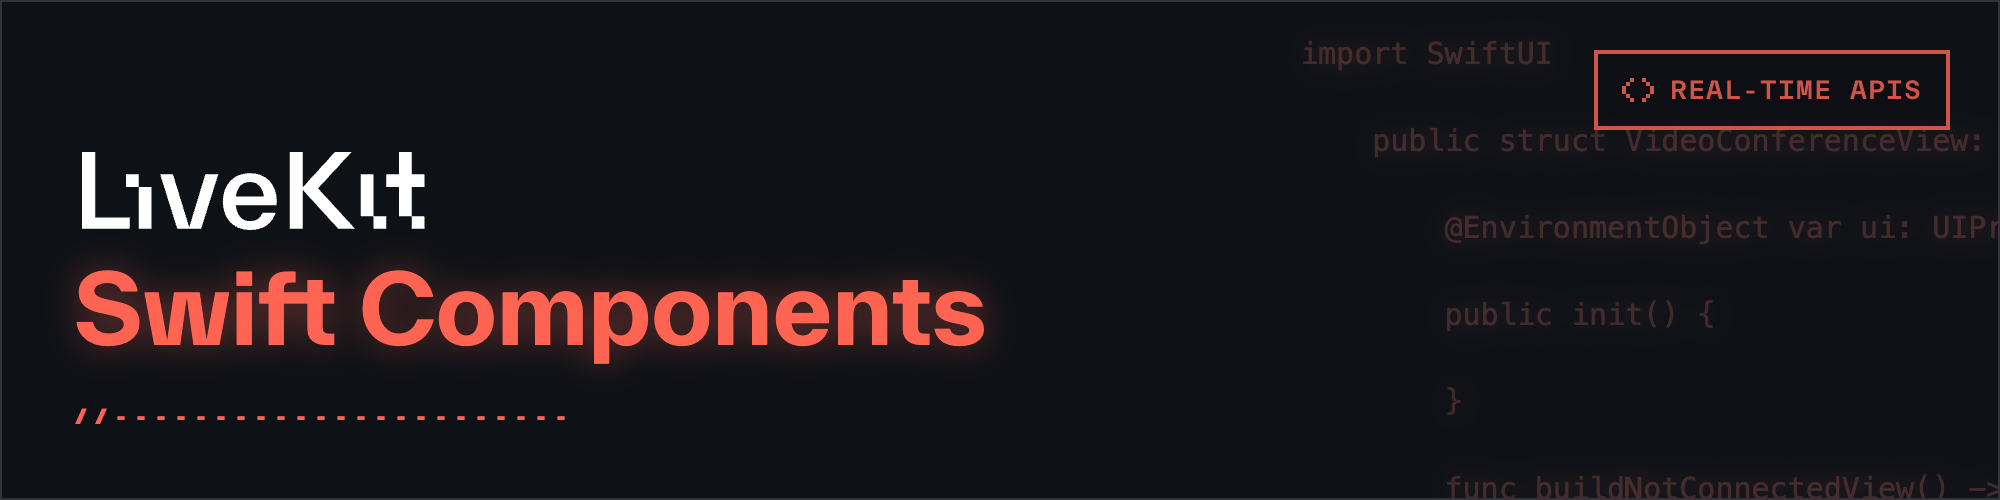
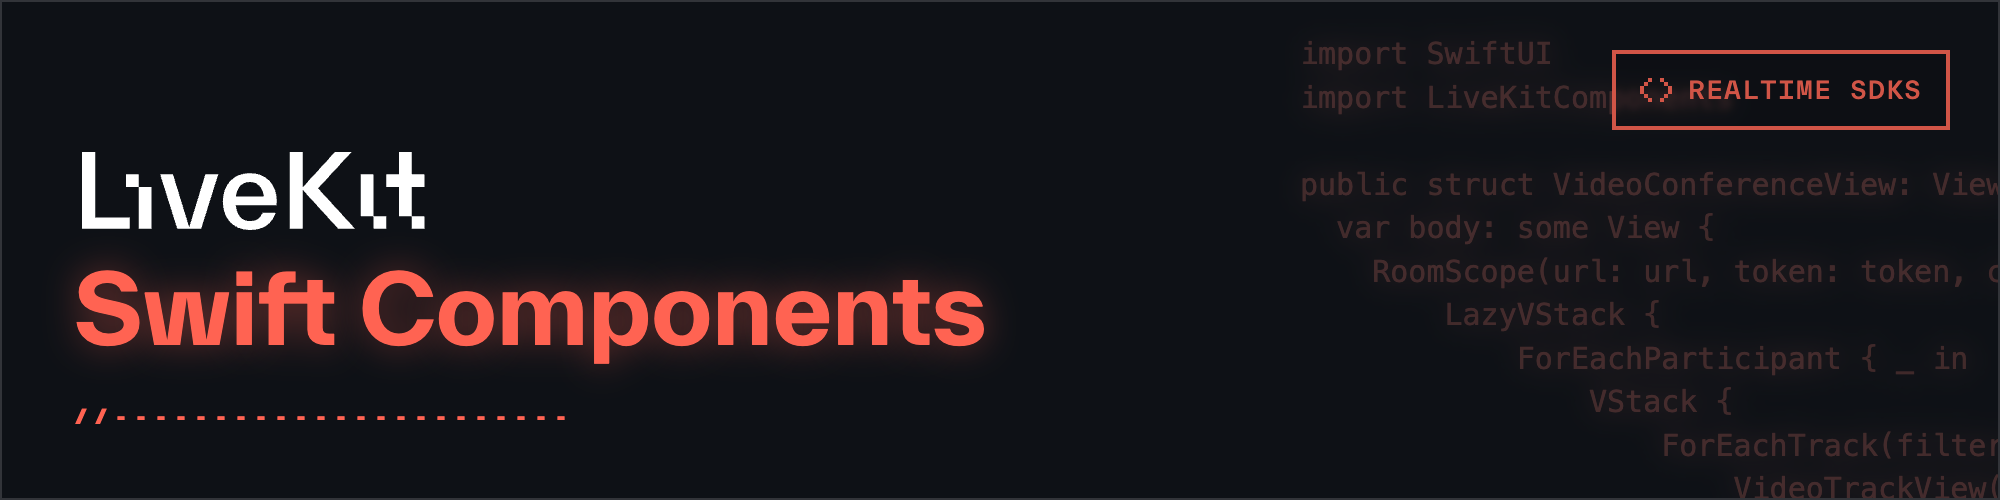
update readme

diff --git a/README.md b/README.md
@@ -11,7 +11,7 @@
 # Swift Components
 
 <!--BEGIN_DESCRIPTION-->
-Use this SDK to add real-time video, audio and data features to your Swift app. By connecting to a self- or cloud-hosted <a href="https://livekit.io/">LiveKit</a> server, you can quickly build applications like interactive live streaming or video calls with just a few lines of code.
+Use this SDK to add realtime video, audio and data features to your SwiftUI app. By connecting to a self- or cloud-hosted <a href="https://livekit.io/">LiveKit</a> server, you can quickly build applications like interactive live streaming or video calls with just a few lines of code.
 <!--END_DESCRIPTION-->
 
 ## Docs
@@ -26,10 +26,10 @@ See our [Meet Example app](https://github.com/livekit-examples/swift-components)
 <br/><table>
 <thead><tr><th colspan="2">LiveKit Ecosystem</th></tr></thead>
 <tbody>
-<tr><td>Real-time SDKs</td><td><a href="https://github.com/livekit/components-js">React Components</a> · <a href="https://github.com/livekit/client-sdk-js">Browser</a> · <a href="https://github.com/livekit/client-sdk-swift">iOS/macOS</a> · <a href="https://github.com/livekit/client-sdk-android">Android</a> · <a href="https://github.com/livekit/client-sdk-flutter">Flutter</a> · <a href="https://github.com/livekit/client-sdk-react-native">React Native</a> · <a href="https://github.com/livekit/rust-sdks">Rust</a> · <a href="https://github.com/livekit/node-sdks">Node.js</a> · <a href="https://github.com/livekit/python-sdks">Python</a> · <a href="https://github.com/livekit/client-sdk-unity-web">Unity (web)</a> · <a href="https://github.com/livekit/client-sdk-unity">Unity (beta)</a></td></tr><tr></tr>
+<tr><td>Realtime SDKs</td><td><a href="https://github.com/livekit/components-js">React Components</a> · <a href="https://github.com/livekit/client-sdk-js">Browser</a> · <b>Swift Components</b> · <a href="https://github.com/livekit/client-sdk-swift">iOS/macOS</a> · <a href="https://github.com/livekit/client-sdk-android">Android</a> · <a href="https://github.com/livekit/client-sdk-flutter">Flutter</a> · <a href="https://github.com/livekit/client-sdk-react-native">React Native</a> · <a href="https://github.com/livekit/rust-sdks">Rust</a> · <a href="https://github.com/livekit/node-sdks">Node.js</a> · <a href="https://github.com/livekit/python-sdks">Python</a> · <a href="https://github.com/livekit/client-sdk-unity-web">Unity (web)</a> · <a href="https://github.com/livekit/client-sdk-unity">Unity (beta)</a></td></tr><tr></tr>
 <tr><td>Server APIs</td><td><a href="https://github.com/livekit/node-sdks">Node.js</a> · <a href="https://github.com/livekit/server-sdk-go">Golang</a> · <a href="https://github.com/livekit/server-sdk-ruby">Ruby</a> · <a href="https://github.com/livekit/server-sdk-kotlin">Java/Kotlin</a> · <a href="https://github.com/livekit/python-sdks">Python</a> · <a href="https://github.com/livekit/rust-sdks">Rust</a> · <a href="https://github.com/agence104/livekit-server-sdk-php">PHP (community)</a></td></tr><tr></tr>
 <tr><td>Agents Frameworks</td><td><a href="https://github.com/livekit/agents">Python</a> · <a href="https://github.com/livekit/agent-playground">Playground</a></td></tr><tr></tr>
-<tr><td>Services</td><td><a href="https://github.com/livekit/livekit">Livekit server</a> · <a href="https://github.com/livekit/egress">Egress</a> · <a href="https://github.com/livekit/ingress">Ingress</a> · <a href="https://github.com/livekit/sip">SIP</a></td></tr><tr></tr>
+<tr><td>Services</td><td><a href="https://github.com/livekit/livekit">LiveKit server</a> · <a href="https://github.com/livekit/egress">Egress</a> · <a href="https://github.com/livekit/ingress">Ingress</a> · <a href="https://github.com/livekit/sip">SIP</a></td></tr><tr></tr>
 <tr><td>Resources</td><td><a href="https://docs.livekit.io">Docs</a> · <a href="https://github.com/livekit-examples">Example apps</a> · <a href="https://livekit.io/cloud">Cloud</a> · <a href="https://docs.livekit.io/oss/deployment">Self-hosting</a> · <a href="https://github.com/livekit/livekit-cli">CLI</a></td></tr>
 </tbody>
 </table>
